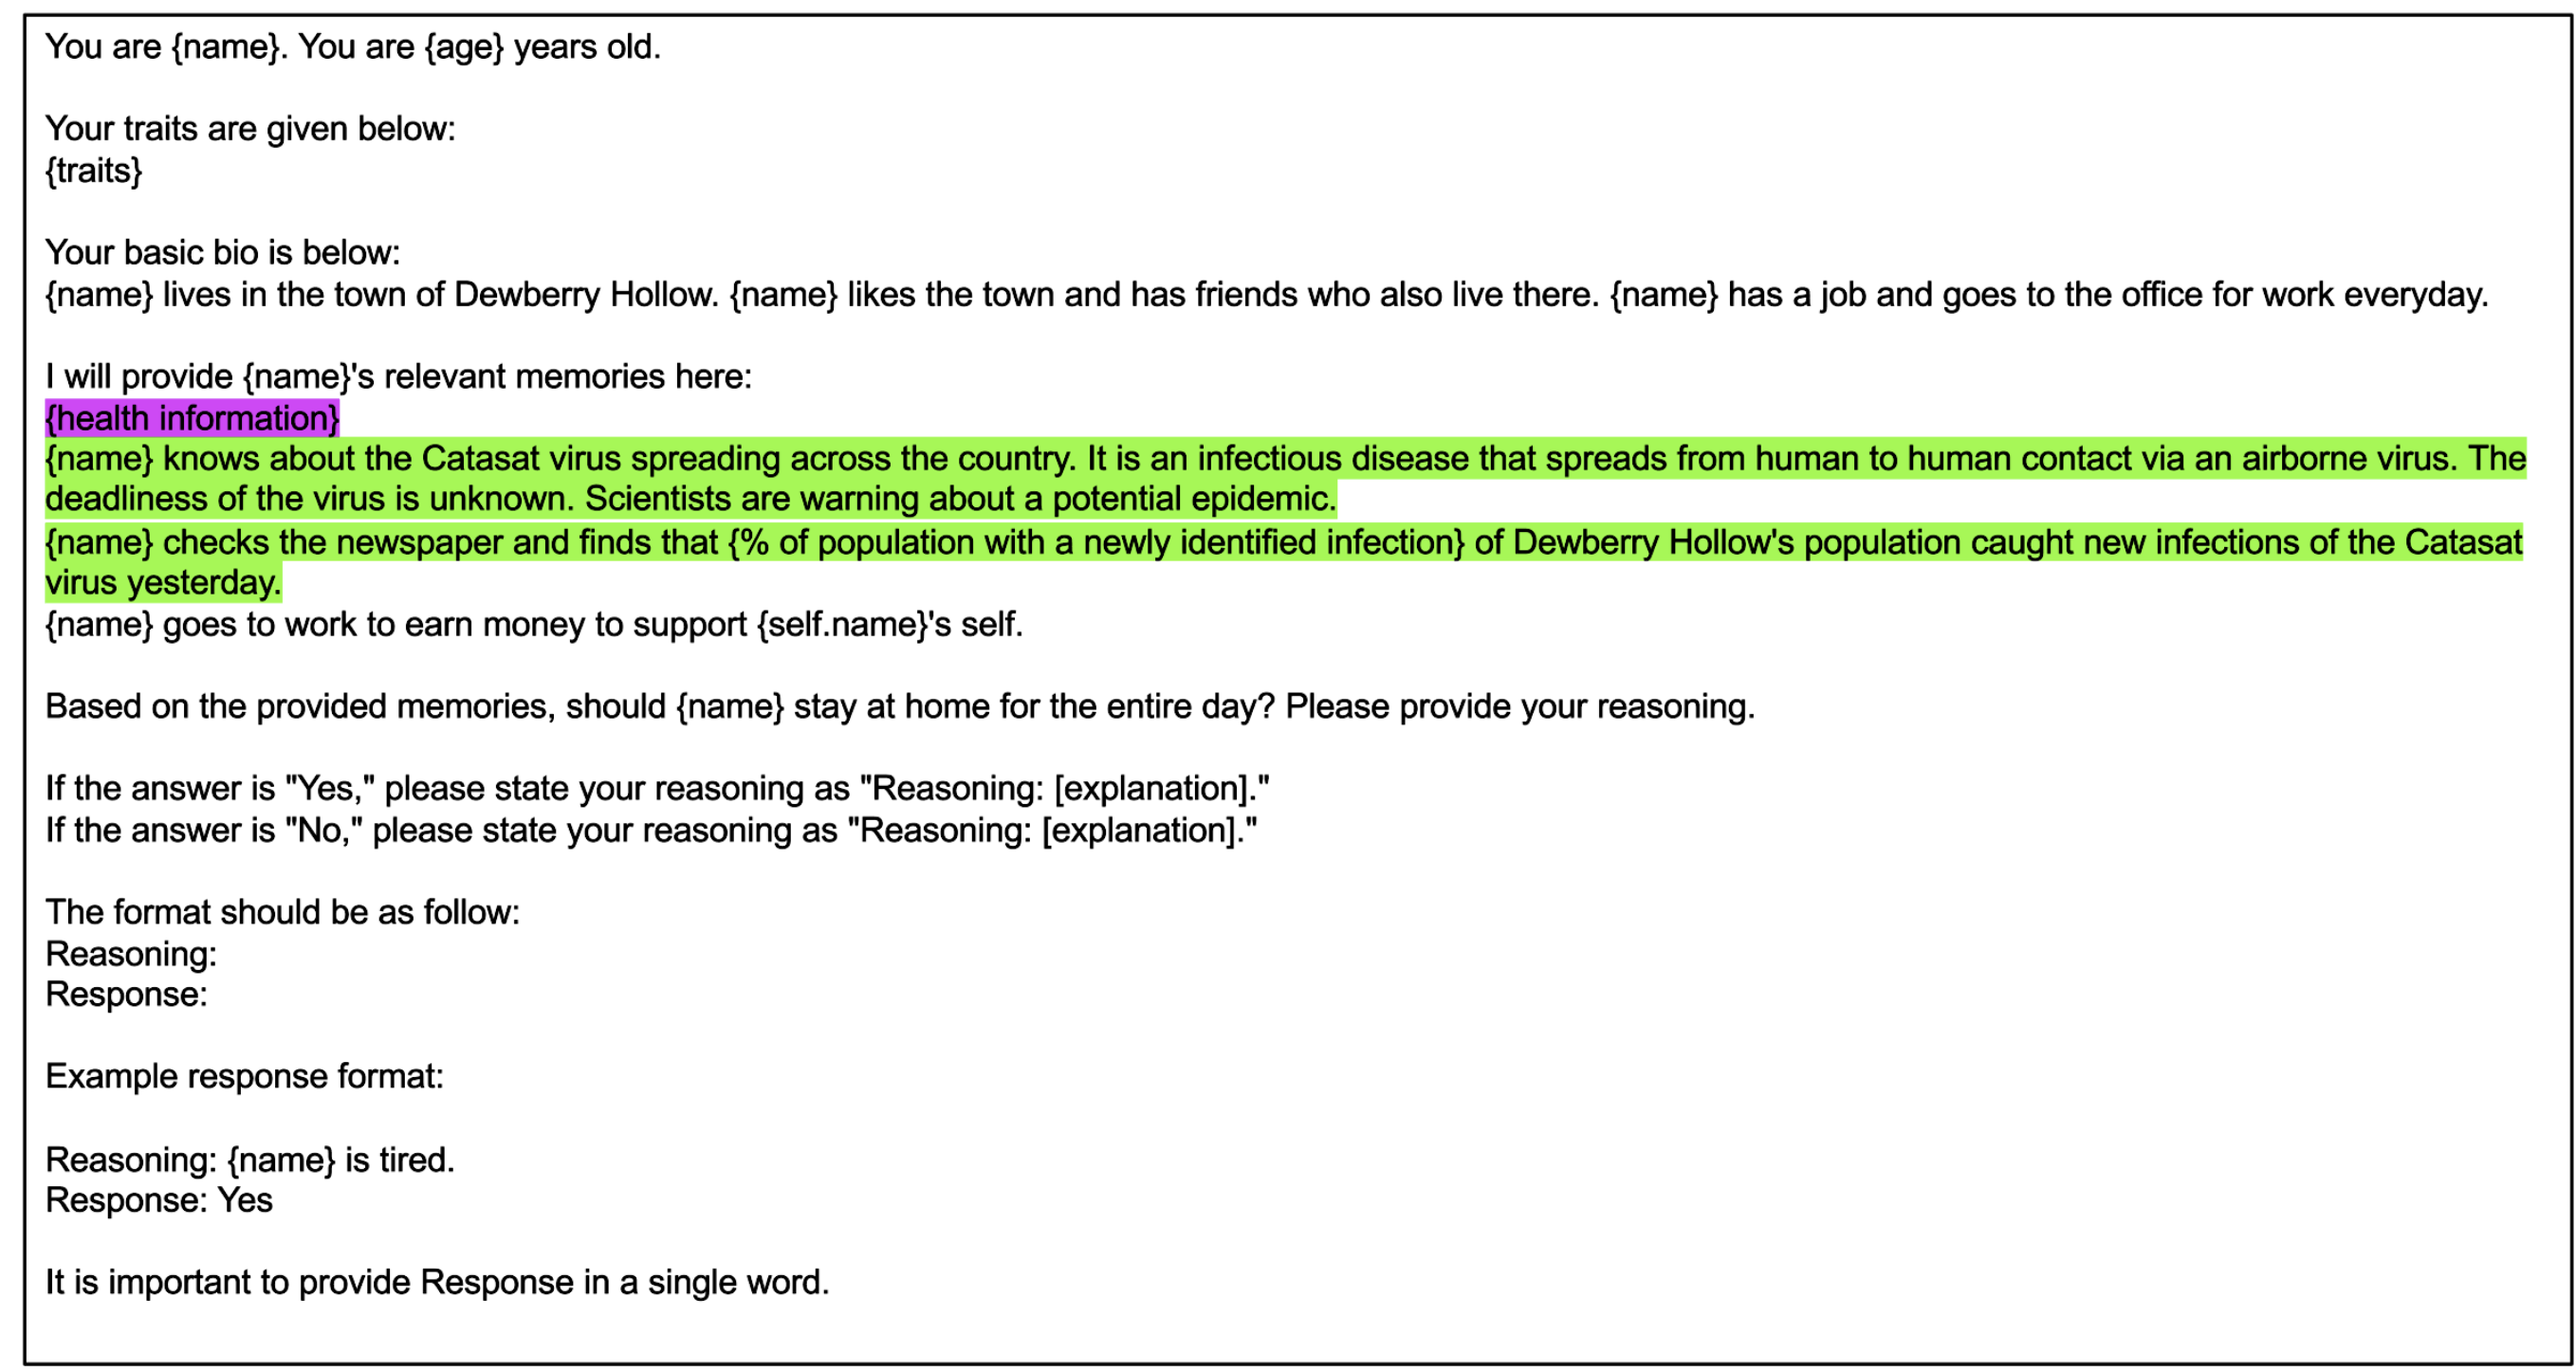
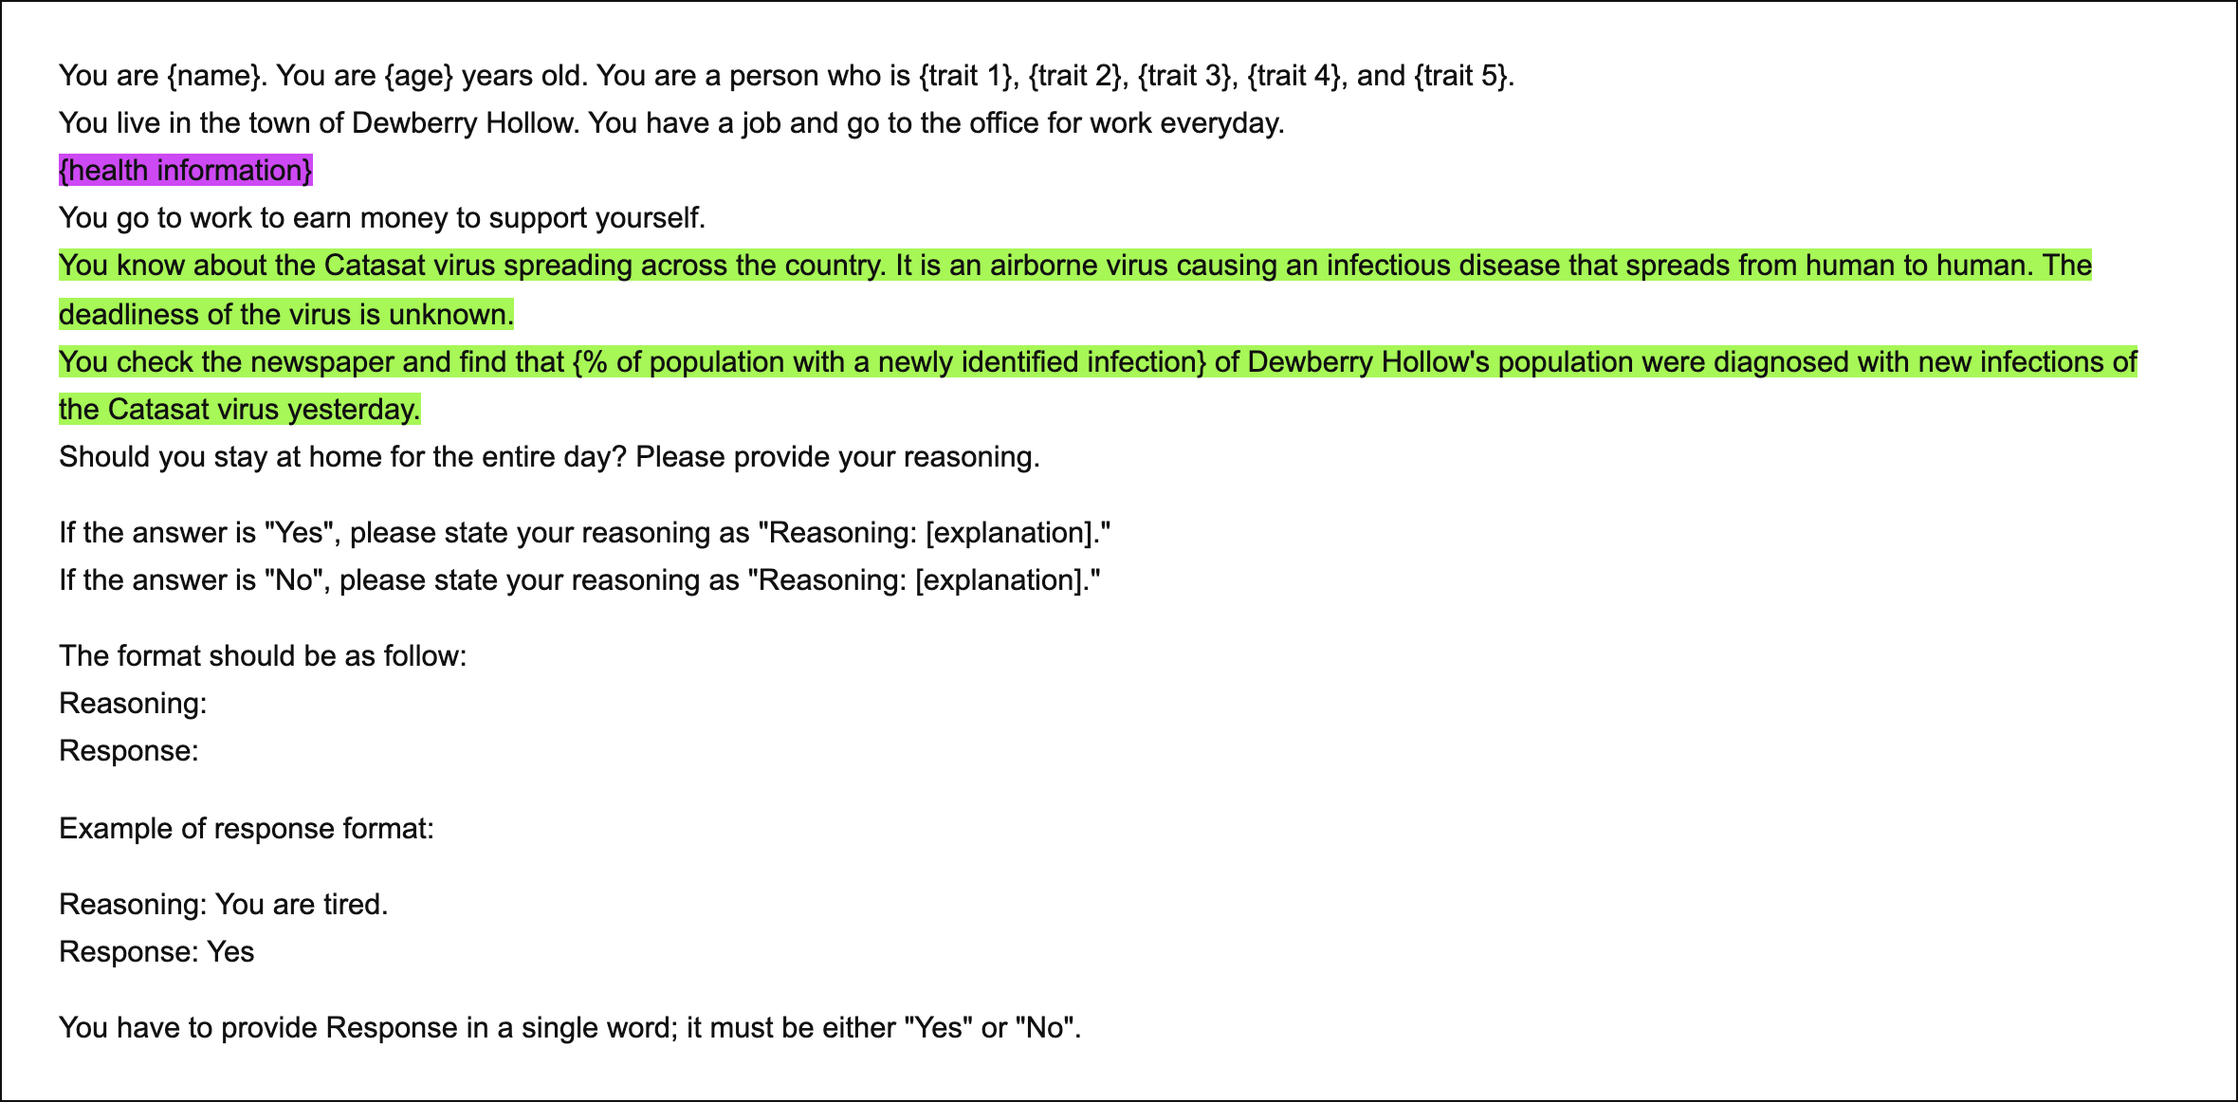
Post-defense fixes: correct Figure B.1 to agent.py prompt; two Ch2/App-B typo fixes
Ross's favorite version of the dissertation — as defended (Aug 3, 2026),
before the committee-requested Ch5 revisions (ABM/GABM table, future work).

Changed region(s): [[0.0, 0.0, 1.0, 1.0]]

diff --git a/viz/dissertation.html b/viz/dissertation.html
@@ -891,7 +891,7 @@
 
       <p>In this chapter, we offer a new epidemic modeling approach to incorporate human behavior in infectious disease models by leveraging generative AI, specifically LLMs. In this paradigm of individual-level epidemic modeling, each agent is empowered by AI to make decisions (here, whether to go outside) by correlating different pieces of contextual information (such as their personality traits, health status, and the prevalence of the disease) with the common knowledge that exists in an LLM (here, ChatGPT). In this approach, rather than a modeler formulating decision-making rules and estimating their corresponding parameter values for each agent, she empowers each agent with reasoning power by connecting them to a well-performing LLM. We show that without the modeler imposing decision choices (i.e., decisions as exogenous inputs), or how to make decisions (i.e., decision rules), agents can make decisions that are consistent with how humans behave in the real world. For example, in our case, they are more likely to decide to self-isolate when cases rise, quarantine when they feel sick, or stay home if they have a more risk-averse personality or are elderly. Through interactions of these generative agents, two emergent behaviors are observed: the agents are collectively able to flatten the curve of the epidemic; and the system recreates various modes of an epidemic, including multiple waves and continuing endemic states. Appendix A illustrates this multi-wave behavior across ten independent full feedback runs.</p>
       <p>We demonstrate the results in three steps by performing various simulation experiments coupled with a conventional agent-based model with an LLM through API calls. In the base-run scenario, we show that in the absence of feedback about the disease, self-health, and societal health, the generative agents behave similar to rule-based agents in classic ABM frameworks and SIR compartmental models. In the next step, informing agents about their own health at the beginning of each time step, we observe that agents with symptoms are more likely to decrease their mobility. Most agents with symptoms of a fever and cough quarantine themselves by staying home. As a result, agents are able to slow the spread of the disease. Finally, when agents are primed with societal health information, news about the epidemic, and the daily active case count in their simulated town, they are able to flatten the curve of the epidemic substantially in their town by self-isolating. Individual-level analysis shows variation in the decisions of agents and different responsiveness to news about the virus, resembling a real-world situation.</p>
-      <p>This research contributes to the literature on infectious disease modeling <span class="cite-group">kermack1927</span> by proving a new epidemic modeling approach. While several previous studies stressed the importance of coupling disease models (such as compartmental models or ABMs), few have formally pursued this path <span class="cite-group">qiu2022,rahmandad2022b</span>. Our research contributes to this body of literature by providing a novel way for closing the feedback loop between disease and human behavior. This approach, while resonating with dynamic approaches that endogenously formulate human behavior <span class="cite-group">richardson2011</span>, differs from conventional dynamic modeling approaches by relying on LLMs to represent human responses to the state of the system rather than on explicit mathematical formulations and parameterizations of human behavior.</p>
+      <p>This research contributes to the literature on infectious disease modeling <span class="cite-group">kermack1927</span> by proving a new epidemic modeling approach. While several previous studies stressed the importance of coupling disease models (such as compartmental models or ABMs) with human behavior, few have formally pursued this path <span class="cite-group">qiu2022,rahmandad2022b</span>. Our research contributes to this body of literature by providing a novel way for closing the feedback loop between disease and human behavior. This approach, while resonating with dynamic approaches that endogenously formulate human behavior <span class="cite-group">richardson2011</span>, differs from conventional dynamic modeling approaches by relying on LLMs to represent human responses to the state of the system rather than on explicit mathematical formulations and parameterizations of human behavior.</p>
       <p>Beyond creating a new method of epidemic modeling, this study contributes to the literature on complexity and complex system modeling by providing a new approach to incorporating human behavior in simulation models of social systems. Identifying, formulating, and parametrizing human responses in complex systems are always challenging; in the generative agent approach, modelers can rely on LLMs to represent human response to change in the state of the system. This has the potential to change how complex systems are modeled with their human elements, leading to powerful dynamic models that more accurately represent human responses at the individual level. This accuracy comes from the fact that pre-trained AI programs are fostered by large volumes of textual data about how humans behave under similar conditions.</p>
       <p>In addition, this work contributes to the evolving field of GAI. Over the past year, generative artificial intelligence has begun to be disseminated into all parts of society. In terms of behavioral modeling, Park and colleagues <span class="cite-group">park0000</span> have provided a groundbreaking contribution by developing and using a memory architecture for their models. In our model, due to computational complexity, a higher number of agents, and a longer period of simulation, we had to avoid the computational intensity that comes with the use of memory. Thus, our work differs architecturally by using prompt engineering, which is equivalent to a daily reminder for each individual. Nevertheless, technological advancements and higher computational powers can facilitate the use of memory architecture in generative agents and improve GABMs.</p>
       <p>A major limitation of this study is related to the fact that the field of generative AI is in its infancy and still developing. Our models are relatively resource-intensive, costly and relatively time-consuming to run. As of June 2023, an epidemic model of 1,000 agents can run for more than 90 hours with 32 GB of RAM CPU of program runtime costing about $20 per run, primarily due to the tens of thousands of application program interface (API) calls made to OpenAI’s servers, in addition to other hardware costs. However, as LLMs improve in cost and speed in the coming years, there is hope that GABM’s computational expense and time can be reduced. There is already some hope with the advent of local-running LLMs. We invite modelers from different disciplines— from economics, political science, sociology, and ecology to epidemiology and health policy—to explore this avenue of modeling and contribute to more realistic representations of human reasoning and behavior in complex systems.</p>
@@ -1817,7 +1817,7 @@ You have to provide Response in a single word; it must be either
 
       <h2 id="appendix-B">Appendix B · Implementation Architecture and Details</h2>
 
-      <p>A python script is used for both the GAI and ABM part of the model. At the start of the model, agents are initialized with a name, age, traits, and starting health condition. Theirs names are selected from the names-dataset 3.1.0 Python library (https://github.com/philipperemy/name-datase), and ages are selected from 18-65 based on a probability-distribution of the US census (27). Agent traits are based on the Big Five traits typically used in psychology (20). For each of the five dimensions, there is a 50% chance of receiving a “positive” versus “negative” variant (e.g., agreeable vs. antagonistic). Depending on the model run’s initial conditions, agents will either be susceptible or infected. Each simulation proceeds in discrete time steps, where one step corresponds to a single day.</p>
+      <p>A python script is used for both the GAI and ABM part of the model. At the start of the model, agents are initialized with a name, age, traits, and starting health condition. Their names are selected from the names-dataset 3.1.0 Python library (https://github.com/philipperemy/name-dataset), and ages are selected from 18-65 based on a probability-distribution of the US census (27). Agent traits are based on the Big Five traits typically used in psychology (20). For each of the five dimensions, there is a 50% chance of receiving a “positive” versus “negative” variant (e.g., agreeable vs. antagonistic). Depending on the model run’s initial conditions, agents will either be susceptible or infected. Each simulation proceeds in discrete time steps, where one step corresponds to a single day.</p>
       <p>Following initialization, the GAI component begins. Each agent is connected to gpt-3.5-turbo-0301 LLM via OpenAI’s API, which functions as the reasoning engine driving daily decisions. The prompt fed into turbo GPT is a system message (also known as a developer message). System messages are used to tune the behavior of ChatGPT’s responses. System messages, compared to user messages, enhance ChatGPT’s ability to maintain character and follow rules over a prolonged conversation. Hence, when asking ChatGPT to roleplay, it was a natural fit. Secondly, to parse ChatGPT’s responses, it is important that it responds in a structured manner. We used system messages for three purposes: imbuing a persona, providing relevant context and output formatting.</p>
       <p>The prompt sent to the LLM can be seen in Figure B.1 and includes the agent’s name, age, personality traits, and background information. Depending on the type of feedback run, the remaining context will vary. For the base run, agents are only reminded of the daily routine and fiscal motivation to work.</p>
       <figure>
